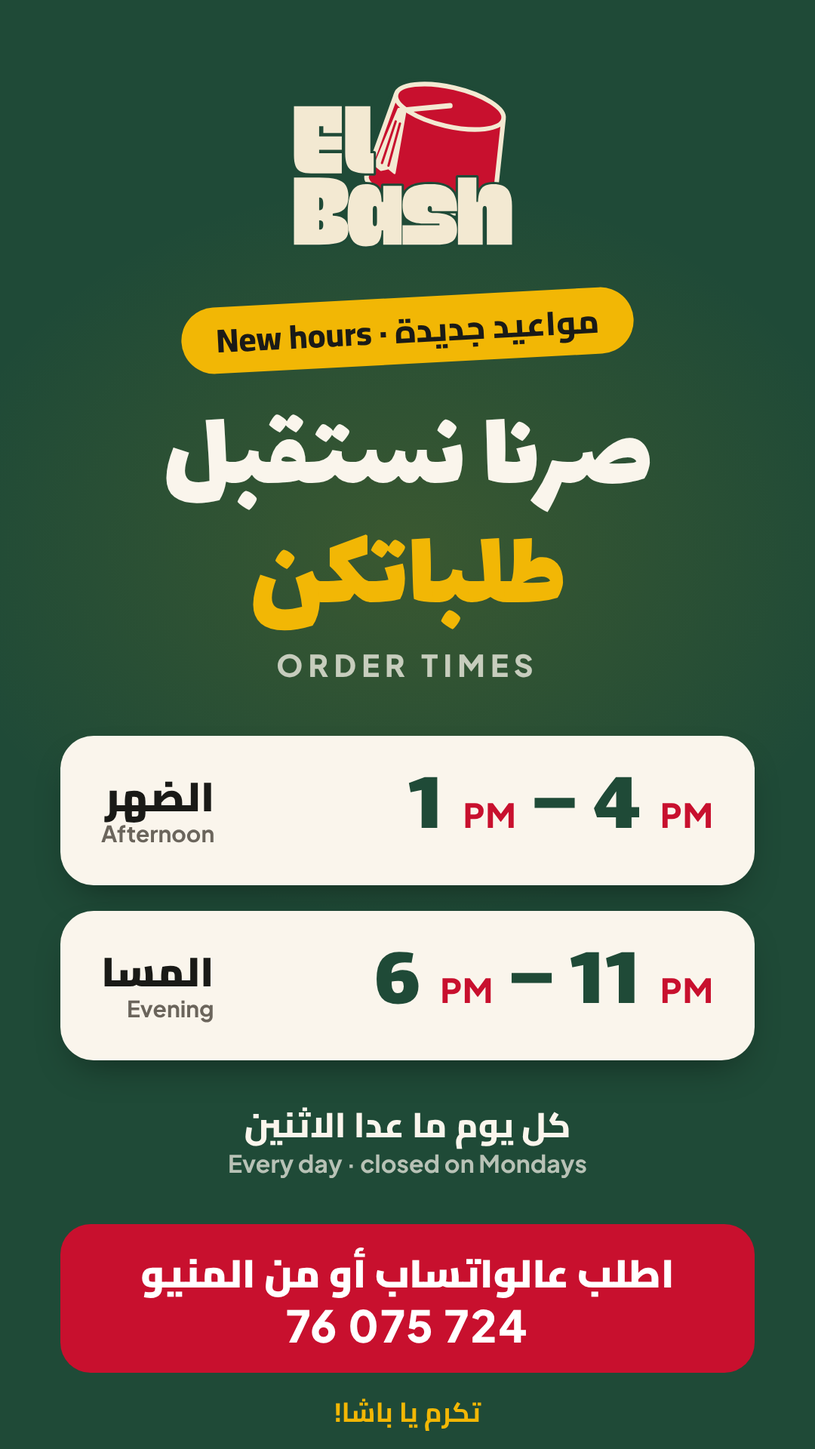
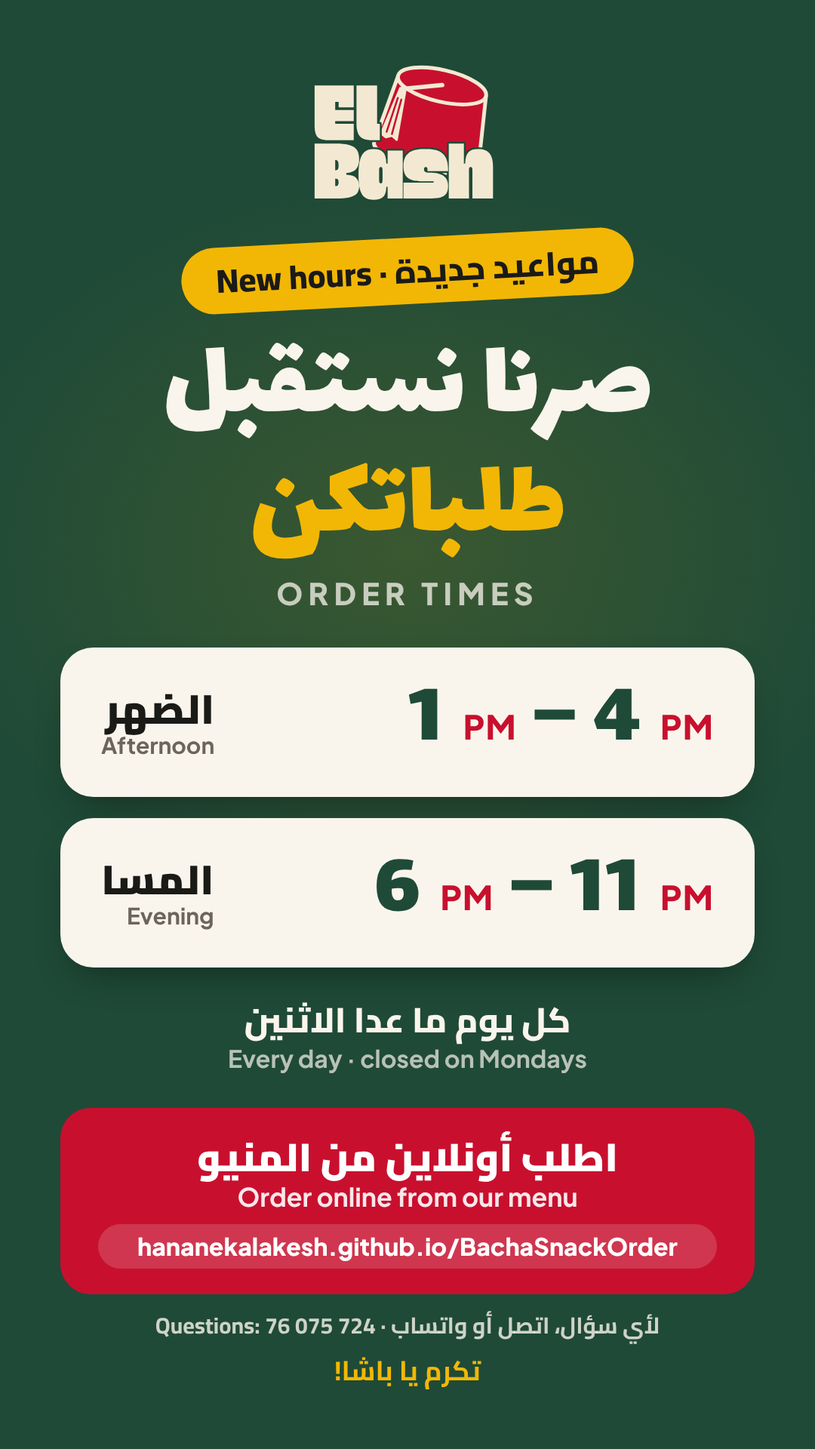
Website: order from the menu, ½ KG family meals, one Wings Meal card
- A website order that reaches the shop now ends on an "Order sent" screen with its number;
  WhatsApp only opens if sending fails. A note under the buttons says to order from the
  menu and to call or WhatsApp for questions; page descriptions say the same.
- Cards with sizes (type 'o', CONFIG.options): Shawarma, Tawouk and Fajita Family Meal with
  ½ KG or 1 KG (sheet rows "… 1/2 KG" at half price), and Wings Meal with 7 or 14 PCS and
  its sauces. Each size is its own Menu row, so the shop's app and prices are unchanged.
- Story: order online from the menu, WhatsApp for questions.

Claude-Session: https://claude.ai/code/session_01Ho39ik2wAA9owBDn2iCxch

diff --git a/index.html b/index.html
@@ -3,13 +3,13 @@
 <head>
 <meta charset="utf-8">
 <meta name="viewport" content="width=device-width,initial-scale=1">
-<meta name="description" content="El Bash – Chicken &amp; Snack digital menu: crispy, zinger, wings, sandwiches, burgers and more. Order on WhatsApp: 76 075 724.">
+<meta name="description" content="El Bash – Chicken &amp; Snack digital menu: crispy, zinger, wings, sandwiches, burgers and more. Order online from the menu: 76 075 724.">
 <meta name="theme-color" content="#1f4a37">
 <!-- Link previews (WhatsApp, Facebook, etc.). If the phone number changes, update it here too. -->
 <meta property="og:type" content="website">
 <meta property="og:site_name" content="El Bash – Chicken &amp; Snack">
 <meta property="og:title" content="El Bash – Chicken &amp; Snack | Menu">
-<meta property="og:description" content="Browse the menu and order on WhatsApp: 76 075 724.">
+<meta property="og:description" content="Browse the menu and order online, right from the menu.">
 <meta property="og:url" content="https://hananekalakesh.github.io/BachaSnackOrder/">
 <meta property="og:image" content="https://hananekalakesh.github.io/BachaSnackOrder/og-image.png?v=2">
 <meta property="og:image:alt" content="El Bash – Chicken &amp; Snack logo">
@@ -61,6 +61,7 @@ button:focus-visible,a:focus-visible,input:focus-visible,textarea:focus-visible{
 .search button{border:0;background:var(--sand);border-radius:10px;width:32px;height:32px;font-size:18px;cursor:pointer}
 .search button[hidden]{display:none}
 .contact-row{display:flex;gap:8px;margin-top:8px}
+.contact-note{margin:8px 2px 0;font-size:13.5px;font-weight:600;color:rgba(250,245,236,.85);text-align:center}
 .cbtn{flex:1;display:flex;align-items:center;justify-content:center;gap:8px;height:48px;border-radius:12px;background:rgba(250,245,236,.08);border:1.5px solid rgba(250,245,236,.3);color:var(--paper);text-decoration:none;font-weight:700;font-size:16px}
 .cbtn.wa{background:var(--whatsapp);border-color:var(--whatsapp);color:#fff}
 .closed-banner{margin-top:12px;padding:9px 12px;border-radius:12px;background:var(--red);color:#fff;font-weight:700;font-size:14px;text-align:center}
@@ -221,6 +222,7 @@ footer small{display:block;margin-top:6px;font-size:12px}
 .choices{display:grid;gap:8px;margin:12px 0 18px}
 .choices label{display:flex;align-items:center;gap:10px;padding:13px 14px;background:var(--white);border-radius:16px;box-shadow:var(--shadow-card);cursor:pointer;font-weight:600}
 .choices label:has(input:checked){box-shadow:0 0 0 2px var(--green)}
+#optSauces{display:grid;gap:8px}#optSauces:empty{display:none}.choice-sub{margin:6px 2px 0;font-weight:700;color:var(--muted)}
 .choices label.off{opacity:.4;cursor:not-allowed}
 .choices input{width:20px;height:20px;margin:0;accent-color:var(--green)}
 .choice-actions{display:flex;justify-content:flex-end;gap:8px}
@@ -258,10 +260,11 @@ a[data-phone=tel]{unicode-bidi:isolate}
     <a class="cbtn" href="tel:+96176075724" data-phone="tel"><svg width="22" height="22" viewBox="0 0 24 24" fill="none" stroke="currentColor" stroke-width="2" stroke-linecap="round" stroke-linejoin="round" aria-hidden="true"><path d="M22 16.9v3a2 2 0 0 1-2.2 2 19.8 19.8 0 0 1-8.6-3.1 19.5 19.5 0 0 1-6-6A19.8 19.8 0 0 1 2.1 4.2 2 2 0 0 1 4.1 2h3a2 2 0 0 1 2 1.7c.1.9.4 1.8.7 2.7a2 2 0 0 1-.5 2.1L8 9.8a16 16 0 0 0 6 6l1.3-1.3a2 2 0 0 1 2.1-.4c.9.3 1.8.6 2.7.7a2 2 0 0 1 1.7 2z"/></svg><span data-t>Call</span></a>
     <a class="cbtn wa" href="https://wa.me/96176075724" data-phone="wa" target="_blank" rel="noopener"><svg width="22" height="22" viewBox="0 0 24 24" fill="none" stroke="currentColor" stroke-width="2" stroke-linecap="round" stroke-linejoin="round" aria-hidden="true"><path d="M21 11.5a8.4 8.4 0 0 1-12.4 7.4L3 21l2.1-5.4A8.4 8.4 0 1 1 21 11.5z"/></svg><span data-t>WhatsApp</span></a>
   </div>
+  <p class="contact-note" data-t>Order right here from the menu ✓ Call or WhatsApp us for any question.</p>
   <div id="closedBanner" class="closed-banner" role="status" hidden data-t>We're closed today (Monday). You can still browse the menu.</div>
   <div id="busyBanner" class="closed-banner busy-banner" role="status" hidden></div>
 </header>
-<button id="promo" class="promo" type="button" data-target="family"><span><small data-t>New · Family Meals</small><b data-t>1 KG Shawarma or Tawouk with fries</b></span><span class="go">$15 <i>→</i></span></button>
+<button id="promo" class="promo" type="button" data-target="family"><span><small data-t>New · Family Meals</small><b data-t>Shawarma, Tawouk or Fajita: ½ KG or 1 KG with fries</b></span><span class="go">$7.5 <i>→</i></span></button>
 <nav aria-label="Menu sections"><div class="nav"><button class="pill active" data-target="popular" data-t>Popular</button><button class="pill" data-target="fries" data-t>Appetizers</button><button class="pill" data-target="meals" data-t>Meals</button><button class="pill" data-target="family" data-t>Family Meals</button><button class="pill" data-target="plates" data-t>Plates</button><button class="pill" data-target="sandwiches" data-t>Sandwiches</button><button class="pill" data-target="burgers" data-t>Burgers</button><button class="pill" data-target="extras" data-t>Sauces &amp; Extras</button><button class="pill" data-target="drinks" data-t>Drinks</button></div></nav>
 <p id="noResults" class="noresults" hidden data-t>No items match your search.</p>
 <noscript><p class="note">Please turn on JavaScript to see the menu, or call us on 76 075 724.</p></noscript>
@@ -308,6 +311,14 @@ a[data-phone=tel]{unicode-bidi:isolate}
   <div class="choice-actions"><button id="cancelChoice" type="button" data-t>Cancel</button><button id="confirmChoice" class="confirm" type="button" data-t>Add to order</button></div>
 </div>
 
+<div id="doneModal" class="choice-modal send-modal" role="dialog" aria-modal="true" aria-labelledby="doneTitle">
+  <h3 id="doneTitle" data-t>Order sent! ✅</h3>
+  <p class="big num-big" id="doneNum"></p>
+  <p class="big" data-t>We got your order. We'll message you on WhatsApp to confirm it.</p>
+  <p data-t>Keep this number in case you call us.</p>
+  <div class="choice-actions"><button id="doneOk" class="confirm" type="button" data-t>OK</button></div>
+</div>
+
 <div id="sendModal" class="choice-modal send-modal" role="dialog" aria-modal="true" aria-labelledby="sendTitle">
   <h3 id="sendTitle" data-t>Almost done!</h3>
   <p class="big num-big" id="sendNum" hidden></p>
@@ -327,6 +338,13 @@ const CONFIG = {
   hours: [['13:00', '16:00'], ['18:00', '23:00']], // opening hours each open day (Beirut time)
   timeZone: 'Asia/Beirut',
   pieces: {4: 500000, 5: 600000, 6: 700000, 7: 800000}, // Crispy / Zinger meal price per number of pieces (until the sheet loads)
+  // cards with sizes (type 'o'): [label, item in the sheet, price until the sheet loads, sauces 's1' / 's2']
+  options: {
+    'Wings Meal': [['7 PCS', 'Half Wings Meal 7 PCS', 400000, 's1'], ['14 PCS', 'Wings Meal 14 PCS', 800000, 's2']],
+    'Shawarma Family Meal': [['1/2 KG', 'Shawarma Family Meal 1/2 KG', '$7.5'], ['1 KG', 'Shawarma Family Meal 1 KG', '$15']],
+    'Tawouk Family Meal': [['1/2 KG', 'Tawouk Family Meal 1/2 KG', '$7.5'], ['1 KG', 'Tawouk Family Meal 1 KG', '$15']],
+    'Fajita Family Meal': [['1/2 KG', 'Fajita Family Meal 1/2 KG', '$10'], ['1 KG', 'Fajita Family Meal 1 KG', '$20']]
+  },
   // Items and prices come from the Menu tab of the El Bash – Orders & Sales sheet, through the order screen's Apps Script.
   // Empty = use only the menu written in this page.
   menuUrl: 'https://script.google.com/macros/s/AKfycby7dthEIW4d2EF90fH6-_lGJEK_kAtu0XVSdARQUmM8w4iFEvBIfab-6SR9JdZmWDSdcA/exec?format=menu',
@@ -355,7 +373,7 @@ const CONFIG = {
     'Shawarma Meal': 'photos/shawarma-meal.jpg',
     'Small Fries Box with Sauce & Cheddar': 'photos/small-cheddar-fries.jpg',
     'Mushroom Burger': 'photos/mushroom-burger.jpg',
-    'Wings Meal 14 PCS': 'photos/wings-meal.jpg',
+    'Wings Meal': 'photos/wings-meal.jpg',
     'Half Broasted Meal 5 PCS': 'photos/half-broasted-meal.jpg',
     'Nuggets 5 PCS': 'photos/nuggets.jpg',
     'Mix Appetizer Box': 'photos/mix-appetizer-box.jpg',
@@ -374,7 +392,8 @@ const CONFIG = {
 };
 
 /* Sauces offered in the choice popup.
-   type 's' = any number of SAUCES.fries · 's1' = 1 of SAUCES.wings · 's2' = 1 or 2 of SAUCES.wings · 'p' = pick number of pieces */
+   type 's' = any number of SAUCES.fries · 's1' = 1 of SAUCES.wings · 's2' = 1 or 2 of SAUCES.wings · 'p' = pick number of pieces
+   · 'o' = pick a size from CONFIG.options (then its sauces, if it has any) */
 const SAUCES = {
   fries: ['Cocktail Sauce', 'Ketchup', 'Barbecue Sauce', 'Cheddar Sauce'],
   wings: ['Buffalo Sauce', 'Barbecue Sauce', 'Honey Mustard Sauce']
@@ -400,8 +419,7 @@ mealGrid: [
   ['Escalope Meal 3 PCS', 800000, 'Escalope chicken, fries, garlic sauce, pickles, coleslaw'],
   ['Cordon Bleu Meal 2 PCS', 700000, 'Cheese stuffed chicken, fries, garlic sauce, pickles, coleslaw'],
   ['Half Broasted Meal 5 PCS', 700000, 'Broasted chicken, fries, garlic sauce, pickles, coleslaw'],
-  ['Wings Meal 14 PCS', 800000, 'Chicken wings, fries, garlic sauce, pickles, coleslaw', 's2'],
-  ['Half Wings Meal 7 PCS', 400000, 'Chicken wings, fries, garlic sauce, pickles, coleslaw', 's1'],
+  ['Wings Meal', 400000, 'Chicken wings, fries, garlic sauce, pickles, coleslaw', 'o'],
   ['Chicken Quesadilla', 700000, 'Sandwich on tortilla bread cut into pieces, with fries and sauce'],
   ['Tawouk Meal', 750000, 'Tawouk chicken sandwich on tortilla bread cut into pieces, with fries, coleslaw, pickles and garlic sauce'],
   ['Shawarma Meal', 700000, 'Shawarma chicken sandwich on tortilla bread cut into pieces, with fries, pickles and garlic sauce']
@@ -411,9 +429,9 @@ familyGrid: [
   ['Zinger Family Meal 20-22 PCS', 2160000, 'Zinger chicken, fries, garlic sauce, pickles and coleslaw'],
   ['Crispy Family Meal 20-22 PCS', 2160000, 'Crispy chicken, fries, garlic sauce, pickles and coleslaw'],
   ['Broasted Family Meal 10 PCS', 1400000, 'Broasted chicken, fries, garlic sauce, pickles and coleslaw'],
-  ['Shawarma Family Meal 1 KG', '$15', 'Chicken shawarma and fries'],
-  ['Tawouk Family Meal 1 KG', '$15', 'Tawouk chicken and fries'],
-  ['Fajita Family Meal 1 KG', '$20', 'Chicken fajita and fries'],
+  ['Shawarma Family Meal', '$7.5', 'Chicken shawarma and fries', 'o'],
+  ['Tawouk Family Meal', '$7.5', 'Tawouk chicken and fries', 'o'],
+  ['Fajita Family Meal', '$10', 'Chicken fajita and fries', 'o'],
   ['Wings Family Meal 1 KG', '$15', 'Chicken wings and fries'],
   ['Boneless Chicken Thighs Family Meal', '$10', 'Boneless chicken thighs and fries']
 ],
@@ -476,7 +494,9 @@ const AR = {
 ui: {'Digital Menu':'المنيو الرقمي','MENU':'المنيو','basha':'باشا','chicken and snack':'تشيكن آند سناك','Closed on Mondays':'مسكّرين يوم الاثنين','Appetizers':'مقبلات','Meals':'وجبات','Family Meals':'وجبات عائلية','Plates':'صحون','Sandwiches':'ساندويشات','Burgers':'برغر','Sauces & Extras':'صوصات وإضافات','Fries':'بطاطا','Other Appetizers':'مقبلات أخرى','Chicken':'دجاج','Beef':'لحمة','Sauce Cups':'أكواب الصوص','Drinks':'مشروبات','Your Order':'طلبك','Total':'المجموع','Delivery':'توصيل','Pickup':'استلام','Clear order':'مسح الطلب','Send via WhatsApp':'ابعت عبر واتساب','Cancel':'إلغاء','Add to order':'ضيف على الطلب','Basha — Chicken and Snack':'باشا — تشيكن آند سناك','Managed by Hussein Al Basha':'بإدارة حسين الباشا','Prices may change based on market rates. Closed on Mondays.':'الأسعار ممكن تتغيّر حسب أسعار السوق. مسكّرين يوم الاثنين.','Your name':'اسمك','Delivery address (area, street, building, floor)':'عنوان التوصيل (المنطقة، الشارع، البناية، الطابق)','Notes (optional)':'ملاحظات (اختياري)','Order on WhatsApp':'اطلب عبر واتساب','View Order':'شوف الطلب','No items selected yet.':'لسا ما اخترت شي.','From':'من','Choose 4-7 PCS':'اختار من 4 لـ 7 قطع','Choose 1 or 2 sauces':'اختار صوص أو صوصين','Choose 1 sauce':'اختار صوص واحد','Choose your sauces':'اختار الصوصات','Choose number of pieces':'اختار عدد القطع','Choose one.':'اختار واحد.','Select one or more sauces.':'اختار صوص أو أكتر.','Choose 1 sauce.':'اختار صوص واحد.','Choose 1 or 2 sauces.':'اختار صوص أو صوصين.','Please choose the number of pieces.':'رجاءً اختار عدد القطع.','Please choose 1 sauce.':'رجاءً اختار صوص واحد.','Please choose at least one sauce.':'رجاءً اختار صوص واحد على الأقل.','Your order is empty. Add some items first.':'طلبك فاضي. ضيف شي أول.','Please enter your name.':'رجاءً اكتب اسمك.','Please choose Delivery or Pickup.':'رجاءً اختار توصيل أو استلام.','Please enter your delivery address.':'رجاءً اكتب عنوان التوصيل.','Hi Basha, I would like to place an order:':'مرحبا باشا، بدي أطلب:','Name':'الاسم','Order type':'نوع الطلب','Address':'العنوان','Notes':'ملاحظات','Basha — Chicken and Snack | Menu':'باشا — تشيكن آند سناك | المنيو',
   'Your WhatsApp number':'رقم الواتساب تبعك','Please enter your WhatsApp number.':'رجاءً اكتب رقم الواتساب تبعك.','Send order':'ابعت الطلب','Order now':'اطلب هلّق',
   "We have a lot of orders right now, so we've paused online orders until {t}. Please try again then, or call us.":'عنا طلبات كتير هلّق، فوقّفنا الطلب أونلاين لـ {t}. جرّب بعدها أو اتصل فينا.',
-  'We have a lot of orders right now: expect about {m} extra minutes. Thanks for your patience!':'عنا طلبات كتير هلّق: الطلب ممكن ياخد حوالي {m} دقيقة زيادة. شكراً على صبرك يا باشا!','Sending…':'عم نبعت…','Order #{n}':'طلب رقم {n}','🌐 Order #{n} (already in the app)':'🌐 طلب رقم {n} (موجود بالتطبيق)','Phone':'الرقم',
+  'We have a lot of orders right now: expect about {m} extra minutes. Thanks for your patience!':'عنا طلبات كتير هلّق: الطلب ممكن ياخد حوالي {m} دقيقة زيادة. شكراً على صبرك يا باشا!','Sending…':'عم نبعت…','Order #{n}':'طلب رقم {n}','Order right here from the menu ✓ Call or WhatsApp us for any question.':'اطلب من هون، من المنيو ✓ واتصل فينا أو راسلنا عالواتساب لأي سؤال.',
+  'Order sent! ✅':'وصل طلبك! ✅',"We got your order. We'll message you on WhatsApp to confirm it.":'وصلنا طلبك، ومنبعتلك رسالة عالواتساب لنأكّدو.','Keep this number in case you call us.':'خلّي هالرقم معك إذا بدك تتصل فينا.','OK':'تمام',
+  'Choose':'اختار','or':'أو','Choose the size':'اختار الحجم','Please choose the size.':'رجاءً اختار الحجم.','Shawarma, Tawouk or Fajita: ½ KG or 1 KG with fries':'شاورما، طاووق أو فاهيتا: نص كيلو أو كيلو مع بطاطا','🌐 Order #{n} (already in the app)':'🌐 طلب رقم {n} (موجود بالتطبيق)','Phone':'الرقم',
   "We couldn't send it to the shop. Send it on WhatsApp instead:":'ما قدرنا نبعتو للمحل. ابعتو عالواتساب بدالها:',
   'Too many orders from this number. Please call or WhatsApp us.':'في طلبات كتير من هالرقم. رجاءً اتصل فينا أو ابعتلنا عالواتساب.',
   'We are very busy right now. Please call or WhatsApp us.':'نحنا كتير مشغولين هلّق. رجاءً اتصل فينا أو ابعتلنا عالواتساب.',
@@ -510,6 +530,26 @@ Object.values(data).flat().forEach(it => {
   if (typeof it[1] === 'string' && it[1][0] === '$') { USD[it[0]] = +it[1].slice(1); it[1] = USD[it[0]] * CONFIG.usdRate }
   ITEMS[it[0]] = it;
 });
+// The sizes of each 'o' card: {label, item, price, usd, sauce}; the card shows the smallest price
+const OPTS = {};
+Object.entries(CONFIG.options).forEach(([card, list]) => {
+  OPTS[card] = list.map(([label, item, p, sauce]) => {
+    const usd = typeof p === 'string' && p[0] === '$' ? +p.slice(1) : 0;
+    return {label, item, price: usd ? usd * CONFIG.usdRate : p, usd, sauce: sauce || ''};
+  });
+});
+function optCard(it) {   // the card's price ("From …") from its sizes
+  const o = OPTS[it[0]], low = o.reduce((a, x) => x.price < a.price ? x : a, o[0]);
+  it[1] = low.price; if (low.usd) USD[it[0]] = low.usd; else delete USD[it[0]];
+}
+const optOf = (card, label) => (OPTS[card] || []).find(o => o.label === label);
+// "1/2 KG" -> "½ KG" / "نص كيلو", "7 PCS" -> "7 قطع"
+function optLabel(l) {
+  const m = String(l).match(/^(\d+(?:\/\d+)?)\s*(PCS|KG)$/i);
+  if (!m) return l;
+  if (/KG/i.test(m[2])) return m[1] === '1/2' ? (lang === 'ar' ? 'نص كيلو' : '½ KG') : m[1] + ' ' + unitWord('KG', m[1]);
+  return m[1] + ' ' + pcsWord(m[1]);
+}
 
 /* ---------- items and prices from the shop's sheet ----------
    The Menu tab is the one place to change items and prices. Descriptions, photos and sauce choices stay here.
@@ -533,6 +573,19 @@ function applySheet(sheet) {
         if (!seen) return true;      // the sheet doesn't list it: keep the page's
         if (!Object.keys(pcs).length) return false;
         PIECES[name] = pcs; it[1] = Math.min(...Object.values(pcs));
+        return true;
+      }
+      if (it[3] === 'o') {           // one card for its sizes, each its own row in the sheet
+        let seen = false;
+        OPTS[name] = OPTS[name].filter(o => {
+          const r = rows[o.item]; if (!r) return true;
+          seen = true; used.add(o.item);
+          if (!r.on || !(r.price || r.usd)) return false;
+          o.usd = r.usd || 0; o.price = r.price || r.usd * rate;
+          return true;
+        });
+        if (seen && !OPTS[name].length) return false;
+        optCard(it);
         return true;
       }
       const r = rows[name];
@@ -566,6 +619,7 @@ function priceOf(key) {
   const m = key.match(/^(.*?) \[(.*)\]$/), item = ITEMS[m ? m[1] : key];
   if (!item) return null;
   if (item[3] === 'p') return m ? piecesOf(item[0])[parseInt(m[2])] || null : null;
+  if (item[3] === 'o') { const o = m && optOf(item[0], m[2].split(', ')[0]); return o ? o.price : null }
   return item[1];
 }
 function orderQtys() { const o = {}; Object.entries(order).forEach(([k, x]) => o[k] = x.qty); return o }
@@ -662,7 +716,7 @@ function tKey(k) {
   if (lang !== 'ar') return k;
   const m = k.match(/^(.*?)\s*\[(.*)\]$/);
   if (!m) return tName(k);
-  const inner = m[2].split(/\s*,\s*/).map(x => { const p = x.match(/^(\d+(?:-\d+)?)\s*PCS$/i); return p ? p[1] + ' ' + pcsWord(p[1]) : tSauce(x) }).join('، ');
+  const inner = m[2].split(/\s*,\s*/).map(x => { const p = x.match(/^(\d+(?:-\d+)?)\s*PCS$/i); return p ? p[1] + ' ' + pcsWord(p[1]) : /^\d+(\/\d+)?\s*KG$/i.test(x) ? optLabel(x) : tSauce(x) }).join('، ');
   return tName(m[1]) + ' [' + inner + ']';
 }
 function tDesc(d) {
@@ -695,8 +749,9 @@ function applyLang() {
 function esc(s) { return String(s).replace(/[&<>"']/g, c => ({'&': '&amp;', '<': '&lt;', '>': '&gt;', '"': '&quot;', "'": '&#39;'}[c])) }
 function qty(s) { return String(s).replace(/(\d+(?:-\d+)?\s*(?:PCS|PC|KG|KGS|قطعة|قطع|كيلو))/gi, '<span class="tag">$1</span>') }
 function card([name, price, desc, type]) {
-  const pick = type === 'p', choice = !!type, label = esc(tName(name));
-  const choiceText = {p: 'Choose 4-7 PCS', s2: 'Choose 1 or 2 sauces', s1: 'Choose 1 sauce', s: 'Choose your sauces'}[type] || '';
+  const pick = type === 'p' || type === 'o', choice = !!type, label = esc(tName(name));
+  const choiceText = type === 'o' ? t('Choose') + ' ' + OPTS[name].map(o => optLabel(o.label)).join(' ' + t('or') + ' ')
+    : t({p: 'Choose 4-7 PCS', s2: 'Choose 1 or 2 sauces', s1: 'Choose 1 sauce', s: 'Choose your sauces'}[type] || '');
   const icon = /zinger|hausa|buffalo/i.test(name) ? ' 🌶' : /grilled chicken (plate|sandwich)|vegetable steak/i.test(name) ? ' 🥗' : '';
   const search = [name, inLang('ar', () => tName(name)), desc, inLang('ar', () => tDesc(desc))].join(' ').toLowerCase();
   const pop = CONFIG.popular.includes(name), src = CONFIG.photos[name];
@@ -707,7 +762,7 @@ function card([name, price, desc, type]) {
   return `<div class="item${src ? ' has-photo' : ''}${choice ? ' choosable' : ''}" data-name="${esc(name)}" data-price="${price}" data-type="${type || ''}" data-search="${esc(search)}">${photo}<div class="name">`
     + `<div class="title">${qty(label)}${icon}</div>`
     + `${desc ? `<div class="ingredients">${esc(tDesc(desc))}</div>` : ''}${pop && !src ? `<span class="tag pop">★ ${t('Popular')}</span>` : ''}`
-    + `${choice ? `<span class="incart" hidden></span><div class="tag choose">${t(choiceText)}</div>` : ''}</div>`
+    + `${choice ? `<span class="incart" hidden></span><div class="tag choose">${esc(choiceText)}</div>` : ''}</div>`
     + `<div class="actions"><div class="price">${pick ? t('From') + ' ' : ''}${fmt(price)}${USD[name] ? ` <bdi dir="ltr">($${USD[name]})</bdi>` : ''}</div>${controls}</div></div>`;
 }
 // All items show as cards, two per row; items with a photo come first so rows line up
@@ -792,7 +847,7 @@ function openLayer(el, opener) {
   if (f) f.focus({preventScroll: true});
 }
 function closeLayers() {
-  $('#choiceModal').classList.remove('open'); $('#sendModal').classList.remove('open'); $('#cartPanel').classList.remove('open'); $('#backdrop').classList.remove('open');
+  $('#choiceModal').classList.remove('open'); $('#sendModal').classList.remove('open'); $('#doneModal').classList.remove('open'); $('#cartPanel').classList.remove('open'); $('#backdrop').classList.remove('open');
   document.documentElement.classList.remove('lock');
   $$('#choiceModal input').forEach(i => i.checked = false);
   selectedChoice = null;
@@ -814,8 +869,13 @@ function renderChoiceOptions() {
   const ty = selectedChoice.type, box = (v, label) => `<label><input type="checkbox" value="${esc(v)}"> <span>${label}</span></label>`;
   $('#choiceFor').textContent = tName(selectedChoice.name);
   $('#choiceErr').textContent = '';
-  $('#choiceTitle').textContent = t(ty === 'p' ? 'Choose number of pieces' : 'Choose your sauces');
-  if (ty === 'p') {
+  $('#choiceTitle').textContent = t(ty === 'p' ? 'Choose number of pieces' : ty === 'o' ? 'Choose the size' : 'Choose your sauces');
+  selectedChoice.sauce = '';
+  if (ty === 'o') {
+    $('#choiceHint').textContent = t('Choose one.');
+    $('#choiceOptions').innerHTML = OPTS[selectedChoice.name].map(o => `<label><input type="radio" name="opt" value="${esc(o.label)}"> <span>${esc(optLabel(o.label))} — ${fmt(o.price)}${o.usd ? ` <bdi dir="ltr">($${o.usd})</bdi>` : ''}</span></label>`).join('') +
+      '<div id="optSauces"></div>';
+  } else if (ty === 'p') {
     $('#choiceHint').textContent = t('Choose one.');
     $('#choiceOptions').innerHTML = Object.entries(piecesOf(selectedChoice.name)).map(([n, pr]) => `<label><input type="radio" name="pcs" value="${n}"> <span>${n} ${pcsWord(n)} — ${fmt(pr)}</span></label>`).join('');
   } else if (ty === 's') {
@@ -826,8 +886,14 @@ function renderChoiceOptions() {
     $('#choiceOptions').innerHTML = SAUCES.wings.map(v => box(v, tSauce(v) + (v === 'Buffalo Sauce' ? ' 🌶' : ''))).join('');
   }
 }
-$('#choiceOptions').onchange = () => {   // limit how many sauces can be ticked
-  const ty = selectedChoice && selectedChoice.type, max = ty === 's2' ? 2 : ty === 's1' ? 1 : 99;
+$('#choiceOptions').onchange = e => {   // limit how many sauces can be ticked
+  if (e.target.name === 'opt') {          // a size with sauces (wings): its sauces under it
+    const o = optOf(selectedChoice.name, e.target.value), box = (v, label) => `<label><input type="checkbox" value="${esc(v)}"> <span>${label}</span></label>`;
+    selectedChoice.sauce = o.sauce;
+    $('#optSauces').innerHTML = o.sauce ? `<p class="choice-sub">${esc(t(o.sauce === 's1' ? 'Choose 1 sauce.' : 'Choose 1 or 2 sauces.'))}</p>` +
+      SAUCES.wings.map(v => box(v, tSauce(v) + (v === 'Buffalo Sauce' ? ' 🌶' : ''))).join('') : '';
+  }
+  const ty = selectedChoice && (selectedChoice.sauce || selectedChoice.type), max = ty === 's2' ? 2 : ty === 's1' ? 1 : 99;
   const boxes = $$('#choiceOptions input[type=checkbox]'), n = boxes.filter(b => b.checked).length;
   boxes.forEach(b => { const off = n >= max && !b.checked; b.disabled = off; b.parentElement.classList.toggle('off', off) });
   $('#choiceErr').textContent = '';
@@ -835,7 +901,15 @@ $('#choiceOptions').onchange = () => {   // limit how many sauces can be ticked
 $('#confirmChoice').onclick = () => {
   if (!selectedChoice) return;
   const checked = $$('#choiceModal input:checked'), err = m => $('#choiceErr').textContent = t(m);
-  if (selectedChoice.type === 'p') {
+  if (selectedChoice.type === 'o') {
+    const size = $$('#choiceModal input[name=opt]:checked')[0], sauces = $$('#choiceModal input[type=checkbox]:checked').map(x => x.value);
+    if (!size) return err('Please choose the size.');
+    const o = optOf(selectedChoice.name, size.value);
+    if (o.sauce && !sauces.length) return err(o.sauce === 's1' ? 'Please choose 1 sauce.' : 'Please choose at least one sauce.');
+    const key = selectedChoice.name + ' [' + [o.label].concat(sauces).join(', ') + ']';
+    add(key, o.price);
+    added(key);
+  } else if (selectedChoice.type === 'p') {
     if (!checked.length) return err('Please choose the number of pieces.');
     const n = checked[0].value;
     add(selectedChoice.name + ' [' + n + ' PCS]', piecesOf(selectedChoice.name)[n]);
@@ -919,6 +993,7 @@ function sheetItem(key, qty) {
   if (!m) return {name: key, qty, sauces: []};
   const item = ITEMS[m[1]];
   if (item && item[3] === 'p') return {name: m[1] + ' ' + parseInt(m[2]) + ' PCS', qty, sauces: []};
+  if (item && item[3] === 'o') { const p = m[2].split(', '), o = optOf(m[1], p[0]); return {name: o ? o.item : key, qty, sauces: p.slice(1)} }
   return {name: m[1], qty, sauces: m[2].split(', ')};
 }
 function whatsappText(entries, name, phone, type, addr, note) {
@@ -935,12 +1010,16 @@ function viaWhatsApp(msg, num) {
   $('#sendModal').classList.add('open');
   $('#goWhatsApp').focus({preventScroll: true});
 }
-// In the shop's app now: the cart is emptied (sending again would make a second order), and the WhatsApp message
-// carries the number so the shop knows it's already in the app
-function sentOrder(num, msg) {
+// In the shop's app now: the cart is emptied (sending again would make a second order) and the order number shown.
+// Nothing to send on WhatsApp: the shop confirms the order there.
+function sentOrder(num) {
   Object.keys(order).forEach(k => delete order[k]); $('#custNote').value = ''; saveCart(); cart();
-  viaWhatsApp(t('🌐 Order #{n} (already in the app)').replace('{n}', num) + '\n' + msg, num);
+  $('#cartPanel').classList.remove('open');
+  $('#doneNum').textContent = t('Order #{n}').replace('{n}', num);
+  $('#doneModal').classList.add('open'); $('#backdrop').classList.add('open');
+  $('#doneOk').focus({preventScroll: true});
 }
+$('#doneOk').onclick = closeLayers;
 let sending = false;
 $('.send').onclick = () => {
   const err = $('#formErr'), fail = m => { err.textContent = t(m); err.scrollIntoView({block: 'nearest'}) };
@@ -967,7 +1046,7 @@ $('.send').onclick = () => {
   (DEMO ? demoServer().then(d => d.post(JSON.parse(body))) : fetch(CONFIG.orderUrl, {method: 'POST', headers: {'Content-Type': 'text/plain;charset=utf-8'}, body, signal: ctl && ctl.signal})
     .then(r => r.json())).then(res => {
       done();
-      if (res && res.ok) return sentOrder(res.num, msg);
+      if (res && res.ok) return sentOrder(res.num);
       // the shop said no: say why when it's something the customer can fix, otherwise offer WhatsApp
       const e = String(res && res.error || '');
       if (/not available/.test(e)) return fail('Some items are not available right now. Please remove them and send again.');

diff --git a/assets/stories/new-hours.html b/assets/stories/new-hours.html
@@ -7,26 +7,28 @@
 :root{--paper:#FAF5EC;--green:#1F4A37;--deep:#173A2B;--red:#C8102E;--mustard:#F2B705;--ink:#1A1A17}
 *{box-sizing:border-box;margin:0}
 html,body{width:1080px;height:1920px;background:var(--green);overflow:hidden}
-body{font-family:Cairo,sans-serif;color:var(--paper);display:flex;flex-direction:column;align-items:center;padding:100px 80px 100px;position:relative}
+body{font-family:Cairo,sans-serif;color:var(--paper);display:flex;flex-direction:column;align-items:center;padding:80px 80px 60px;position:relative}
 body::before{content:'';position:absolute;inset:0;background:radial-gradient(900px 700px at 50% 38%,rgba(242,183,5,.13),transparent 70%)}
-.logo{width:330px;position:relative}
-.kicker{margin-top:60px;background:var(--mustard);color:var(--ink);font:800 44px/1 Cairo;padding:22px 46px;border-radius:999px;transform:rotate(-3deg);position:relative}
-h1{margin-top:50px;font:400 150px/1.05 Lalezar,Cairo;color:var(--paper);text-align:center;position:relative}
+.logo{width:270px;position:relative}
+.kicker{margin-top:44px;background:var(--mustard);color:var(--ink);font:800 44px/1 Cairo;padding:22px 46px;border-radius:999px;transform:rotate(-3deg);position:relative}
+h1{margin-top:34px;font:400 150px/1.05 Lalezar,Cairo;color:var(--paper);text-align:center;position:relative}
 h1 span{color:var(--mustard)}
 .en-sub{font:800 40px/1.2 'Plus Jakarta Sans';letter-spacing:.18em;text-transform:uppercase;color:rgba(250,245,236,.75);margin-top:10px;direction:ltr;position:relative}
-.slots{margin-top:70px;display:flex;flex-direction:column;gap:34px;width:100%;position:relative}
+.slots{margin-top:48px;display:flex;flex-direction:column;gap:28px;width:100%;position:relative}
 .slot{background:var(--paper);color:var(--ink);border-radius:44px;padding:40px 54px;display:flex;align-items:center;justify-content:space-between;box-shadow:0 22px 50px -20px rgba(0,0,0,.45)}
 .slot .t{font:400 118px/1 Lalezar,Cairo;color:var(--green);direction:ltr;letter-spacing:.01em}
 .slot .t small{font:800 44px/1 'Plus Jakarta Sans';color:var(--red);margin-inline-start:6px}
 .slot .l{text-align:right}
 .slot .l b{display:block;font:900 54px/1.1 Cairo}
 .slot .l i{display:block;font:700 30px/1.2 'Plus Jakarta Sans';font-style:normal;color:#6B655C;direction:ltr;text-align:right}
-.mon{margin-top:56px;font:800 46px/1.3 Cairo;text-align:center;position:relative}
+.mon{margin-top:40px;font:800 46px/1.3 Cairo;text-align:center;position:relative}
 .mon i{display:block;font:700 32px/1.3 'Plus Jakarta Sans';font-style:normal;color:rgba(250,245,236,.7);direction:ltr}
-.cta{margin-top:60px;background:var(--red);color:#fff;border-radius:40px;padding:34px 50px;width:100%;text-align:center;position:relative}
+.cta{margin-top:44px;background:var(--red);color:#fff;border-radius:40px;padding:34px 50px;width:100%;text-align:center;position:relative}
 .cta b{display:block;font:900 52px/1.2 Cairo}
-.cta span{display:block;margin-top:8px;font:800 58px/1 'Plus Jakarta Sans';direction:ltr;letter-spacing:.04em}
-.sig{margin-top:34px;font:700 36px/1 Cairo;color:var(--mustard);position:relative}
+.cta i{display:block;font:700 34px/1.3 'Plus Jakarta Sans';font-style:normal;opacity:.9;direction:ltr}
+.cta span{display:block;margin-top:14px;font:800 32px/1.2 'Plus Jakarta Sans';direction:ltr;background:rgba(255,255,255,.16);border-radius:999px;padding:10px 18px}
+.ask{margin-top:22px;font:700 30px/1.3 Cairo;color:rgba(250,245,236,.8);position:relative}
+.sig{margin-top:22px;font:700 36px/1 Cairo;color:var(--mustard);position:relative}
 </style></head><body>
 <img class="logo" src="../elbash/v4/noar-green.svg" alt="El Bash">
 <div class="kicker">مواعيد جديدة · New hours</div>
@@ -37,6 +39,7 @@ h1 span{color:var(--mustard)}
   <div class="slot"><div class="t">6 <small>PM</small> – 11 <small>PM</small></div><div class="l"><b>المسا</b><i>Evening</i></div></div>
 </div>
 <div class="mon">كل يوم ما عدا الاثنين<i>Every day · closed on Mondays</i></div>
-<div class="cta"><b>اطلب عالواتساب أو من المنيو</b><span>76 075 724</span></div>
+<div class="cta"><b>اطلب أونلاين من المنيو</b><i>Order online from our menu</i><span>hananekalakesh.github.io/BachaSnackOrder</span></div>
+<div class="ask">لأي سؤال، اتصل أو واتساب · Questions: 76 075 724</div>
 <div class="sig">تكرم يا باشا!</div>
 </body></html>
